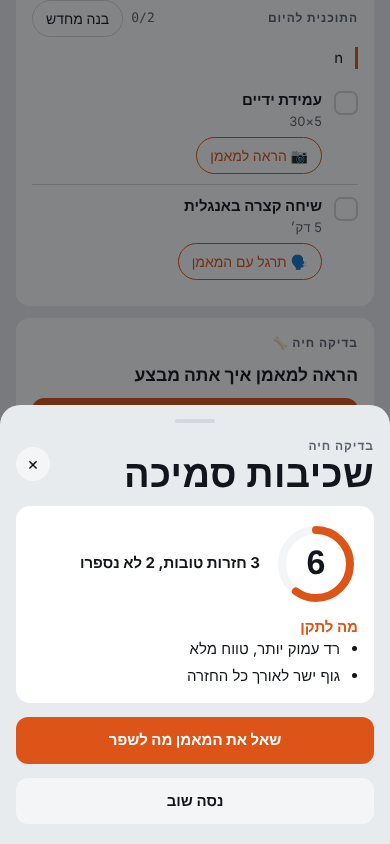
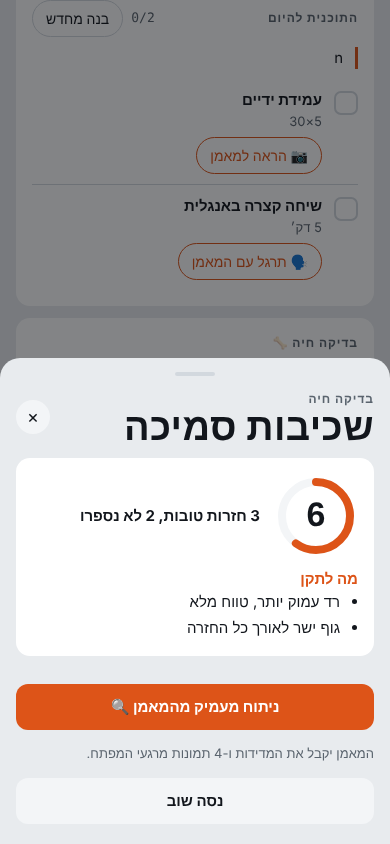
Deeper coach feedback: root cause, what was seen, why, how to fix, dosed drill
Video analysis sends 8 moments and the user's history; the live check
sends per-rep measurements and key-moment pictures on request.

Claude-Session: https://claude.ai/code/session_01DaGKMvaFq6VbNwD2FT6hoc

Changed region(s): [[0.0, 0.4005, 1.0, 0.9242], [0.2154, 0.6469, 0.6769, 0.6777], [0.0615, 0.5237, 0.0923, 0.5545]]

diff --git a/index.html b/index.html
@@ -76,7 +76,9 @@ body.has-bg .onbg,body.has-bg .onbg .muted,body.has-bg .onbg .eyebrow,body.has-b
 .live-msg.bad{background:rgba(185,58,44,.85)}
 .live-bottom{position:absolute;left:0;right:0;bottom:0;padding:12px max(16px,env(safe-area-inset-right,0px)) calc(14px + env(safe-area-inset-bottom,0px)) max(16px,env(safe-area-inset-left,0px));background:linear-gradient(transparent,rgba(0,0,0,.6))}
 .exgrid{display:grid;grid-template-columns:repeat(3,1fr);gap:8px}
-.exgrid .sport{min-height:0;padding:14px 8px}.exgrid .disp{font-size:17px;line-height:1.2}
+.exgrid .sport{min-height:0;padding:14px 8px}
+.fixc{border:1px solid var(--line);border-radius:12px;padding:10px 12px;background:var(--surface)}.fixc summary{cursor:pointer;list-style-position:inside}.fixc[open] summary{margin-bottom:6px}.fixc .small{margin-top:4px}
+.drillc{background:var(--accent-soft)}.exgrid .disp{font-size:17px;line-height:1.2}
 .exgrid .sport{min-height:0;padding:12px 8px;text-align:center;align-items:center}
 .exgrid .sport .disp{font-size:24px}
 .celebrate{text-align:center;display:flex;flex-direction:column;align-items:center;gap:10px;padding:10px 0}
@@ -753,35 +755,62 @@ function holdCheck(kind,m){const issues=[];
   if(kind==='handstand'){if(!m.inverted)issues.push('עלה לעמידת ידיים');else{if(m.line<160)issues.push('גוף ישר, בלי קשת בגב');if(m.elbow<155)issues.push('ידיים נעולות')}}
   return issues}
 let LIVE=null;
-function liveNew(id,name){return{id,name,facing:'user',running:false,reps:0,bad:0,state:'up',min:999,max:0,partial:false,holdMs:0,bestHold:0,cur:0,lastT:0,issues:{},smooth:null,msg:'',msgT:0,frames:0,seen:0}}
+function liveNew(id,name){return{id,name,facing:'user',running:false,reps:0,bad:0,state:'up',min:999,max:0,partial:false,holdMs:0,bestHold:0,cur:0,lastT:0,issues:{},smooth:null,msg:'',msgT:0,frames:0,seen:0,log:[],rep:null,attempts:[],hsnaps:[],snapT:0}}
+// one finished rep: how deep, how straight, how long, and a picture of its bottom
+function repEnd(L,t,ok,why){const r=L.rep;if(r)L.log.push({ok,why:why||'',min:Math.round(r.min),line:Math.round(r.lineMin),dur:Math.round((t-r.t0)/100)/10,snap:r.snap||null});L.rep=null}
 function liveStep(L,m,t){const E=LIVE_EX[L.id]||{kind:'general'};L.frames++;if(!m.visible){L.msg='צריך לראות את כל הגוף בפריים';L.cls='bad';L.lastT=t;return}L.seen++;
   const dt=L.lastT?Math.min(200,t-L.lastT):0;L.lastT=t;
   const note=x=>{L.issues[x]=(L.issues[x]||0)+1};
   if(E.kind==='reps'){let a=m[E.joint];L.smooth=L.smooth==null?a:L.smooth*0.6+a*0.4;a=L.smooth;
+    if(!L.rep)L.rep={t0:t,min:999,lineMin:180};if(a<L.rep.min-2){L.rep.min=a;if(t-L.snapT>150){L.snapReq='rep';L.snapT=t}}L.rep.lineMin=Math.min(L.rep.lineMin,m.line);
     const lo=E.inverse?a<E.down:a<E.down, hi=E.inverse?a>E.up:a>E.up;
     if(L.state==='up'){L.min=Math.min(L.min,a);
       if(lo){L.state='down';L.formBad=false}
-      else if(hi&&L.min<E.up-30){L.bad++;note(E.joint==='knee'?'רד עמוק יותר':'רד עמוק יותר, טווח מלא');L.msg=E.joint==='knee'?'חצי חזרה: רד עמוק יותר':'חצי חזרה: רד עמוק יותר';L.cls='bad';L.min=999}
-      else if(hi)L.min=999}
+      else if(hi&&L.min<E.up-30){L.bad++;repEnd(L,t,false,'חצי חזרה');note(E.joint==='knee'?'רד עמוק יותר':'רד עמוק יותר, טווח מלא');L.msg=E.joint==='knee'?'חצי חזרה: רד עמוק יותר':'חצי חזרה: רד עמוק יותר';L.cls='bad';L.min=999}
+      else if(hi){L.min=999;L.rep={t0:t,min:999,lineMin:180}}}
     else{if(E.line&&m.line<155){L.formBad=true}
       if(E.depth&&!m.hipBelowKnee&&a<E.down+5){}
       if(hi){L.state='up';L.min=999;
-        if(L.formBad){L.bad++;note('גוף ישר לאורך כל החזרה');L.msg='✗ הגוף לא היה ישר';L.cls='bad'}
-        else{L.reps++;L.msg='✓ חזרה טובה';L.cls='good'}}}
+        if(L.formBad){L.bad++;repEnd(L,t,false,'גוף לא ישר');note('גוף ישר לאורך כל החזרה');L.msg='✗ הגוף לא היה ישר';L.cls='bad'}
+        else{L.reps++;repEnd(L,t,true);L.msg='✓ חזרה טובה';L.cls='good'}}}
     if(L.state==='down'&&E.line&&m.line<155){L.msg='יישר את הגוף!';L.cls='bad'}
     return}
   if(E.kind==='pull'){const a=m.elbow;L.smooth=L.smooth==null?a:L.smooth*0.6+a*0.4;
+    if(!L.rep)L.rep={t0:t,min:999,lineMin:180};if(L.smooth<L.rep.min-2){L.rep.min=L.smooth;if(t-L.snapT>150){L.snapReq='rep';L.snapT=t}}L.rep.lineMin=Math.min(L.rep.lineMin,m.line??180);
     if(L.state==='up'){ // "up" here = hanging at the bottom, waiting to pull
-      if(L.smooth<80&&m.noseAboveWrist){L.state='top';L.reps++;L.msg='✓ חזרה טובה';L.cls='good'}
+      if(L.smooth<80&&m.noseAboveWrist){L.state='top';L.reps++;repEnd(L,t,true);L.msg='✓ חזרה טובה';L.cls='good'}
       else if(L.smooth<95&&!m.noseAboveWrist){L.msg='עוד קצת! סנטר מעל המוט';L.cls='bad';L.near=true}}
     else if(L.smooth>150){L.state='up';L.near=false}
-    if(L.state==='up'&&L.near&&L.smooth>150){L.bad++;note('סנטר מעל המוט בכל חזרה');L.near=false}
+    if(L.state==='up'&&L.near&&L.smooth>150){L.bad++;repEnd(L,t,false,'הסנטר לא עבר את המוט');note('סנטר מעל המוט בכל חזרה');L.near=false}
+    else if(L.state==='up'&&!L.near&&L.smooth>150&&L.rep&&L.rep.min>150)L.rep={t0:t,min:999,lineMin:180}
     return}
   if(E.kind==='hold'){const iss=holdCheck(E.hold,m);
+    if(t-L.snapT>800){L.snapReq=iss.length?'bad:'+iss[0]:'good';L.snapT=t}
     if(!iss.length){L.cur+=dt;L.holdMs+=dt;L.bestHold=Math.max(L.bestHold,L.cur);L.msg='✓ מחזיק נכון';L.cls='good'}
-    else{if(L.cur>500)note(iss[0]);L.cur=0;L.msg=iss[0];L.cls='bad'}
+    else{if(L.cur>500){note(iss[0]);L.attempts.push({sec:Math.round(L.cur/100)/10,broke:iss[0],line:Math.round(m.line),elbow:Math.round(m.elbow),tilt:Math.round(m.bodyTilt)})}L.cur=0;L.msg=iss[0];L.cls='bad'}
     return}
+  if(t-L.snapT>1200){L.snapReq='general';L.snapT=t}
   L.msg='השלד עוקב אחריך. לחץ "סיימתי" כשתסיים.';L.cls=''}
+function grabSnap(v,mirror){const sc=Math.min(1,640/Math.max(v.videoWidth,v.videoHeight));const c=document.createElement('canvas');c.width=Math.round(v.videoWidth*sc);c.height=Math.round(v.videoHeight*sc);
+  const x=c.getContext('2d');if(mirror){x.translate(c.width,0);x.scale(-1,1)}x.drawImage(v,0,0,c.width,c.height);return new Promise(r=>c.toBlob(r,'image/jpeg',.8))}
+function takeSnap(L,v){const kind=L.snapReq;L.snapReq=null;const p=grabSnap(v,L.facing==='user');
+  if(kind==='rep'){if(L.rep)L.rep.snap=p}
+  else{L.hsnaps.push({kind,cur:L.cur,p});if(L.hsnaps.length>60)L.hsnaps.splice(0,L.hsnaps.length-60)}}
+// the pictures worth showing the coach: best and worst moments, at most 4
+function pickSnaps(L){const E=LIVE_EX[L.id]||{kind:'general'};const out=[];const add=(p,label)=>{if(p&&out.length<4&&!out.some(o=>o.p===p))out.push({p,label})};
+  if(E.kind==='reps'||E.kind==='pull'){const R=L.log.map((r,i)=>({...r,i:i+1}));const ok=R.filter(r=>r.ok),bad=R.filter(r=>!r.ok);
+    if(ok[0])add(ok[0].snap,`חזרה ${ok[0].i} (נספרה), נקודה תחתונה`);
+    bad.forEach(b=>add(b.snap,`חזרה ${b.i} (לא נספרה: ${b.why})`));
+    if(ok.length>1)add(ok[ok.length-1].snap,`חזרה ${ok[ok.length-1].i} (נספרה, אחרונה)`)}
+  else{const H=L.hsnaps;const g=H.filter(h=>h.kind==='good').sort((a,b)=>b.cur-a.cur);const b=H.filter(h=>h.kind.startsWith('bad'));
+    if(g[0])add(g[0].p,'רגע של החזקה נכונה');const seen=new Set();for(const x of b){const k=x.kind.slice(4);if(seen.has(k))continue;seen.add(k);add(x.p,'טעות: '+k)}
+    if(E.kind==='general'){const n=H.length;for(const i of [0,Math.floor(n/3),Math.floor(2*n/3),n-1])if(H[i])add(H[i].p,'רגע מהביצוע')}}
+  return out}
+function liveStats(L){const E=LIVE_EX[L.id]||{kind:'general'};
+  if(E.kind==='reps'||E.kind==='pull'){const j=E.kind==='pull'?'מרפק בנקודה העליונה':E.joint==='knee'?'ברך בנקודה התחתונה':E.joint==='hip'?'ירך':'מרפק בנקודה התחתונה';
+    return `מדידות מהשלד (זוויות במעלות, 180 = ישר; ירידה מלאה = פחות מ-${E.down||80}; קו גוף 180 = כתף-אגן-קרסול בקו ישר):\n`+(L.log.map((r,i)=>`חזרה ${i+1}: ${r.ok?'נספרה':'לא נספרה ('+r.why+')'}, זווית ${j}: ${r.min}°, קו גוף מינימלי: ${r.line}°, משך: ${r.dur} שנ׳`).join('\n')||'לא הושלמו חזרות')}
+  if(E.kind==='hold')return `ניסיונות החזקה (רק זמן בטכניקה נכונה נספר):\n`+(L.attempts.map((a,i)=>`ניסיון ${i+1}: ${a.sec} שנ׳, נשבר בגלל: ${a.broke} (קו גוף ${a.line}°, מרפק ${a.elbow}°, הטיית גוף מהאופק ${a.tilt}°)`).join('\n')||'אין ניסיון של יותר מחצי שנייה')+`\nהחזקה הכי ארוכה: ${(L.bestHold/1000).toFixed(1)} שנ׳`;
+  return 'מצב מעקב כללי, בלי ספירה אוטומטית'}
 function drawSkel(cv,lm,vw,vh){const c=cv.getContext('2d');const W=cv.clientWidth,H=cv.clientHeight;if(cv.width!==W*devicePixelRatio){cv.width=W*devicePixelRatio;cv.height=H*devicePixelRatio}
   c.setTransform(devicePixelRatio,0,0,devicePixelRatio,0,0);c.clearRect(0,0,W,H);if(!lm)return;
   const sc=Math.max(W/vw,H/vh),ox=(W-vw*sc)/2,oy=(H-vh*sc)/2;const X=i=>[ox+lm[i].x*vw*sc,oy+lm[i].y*vh*sc];
@@ -804,7 +833,7 @@ async function startLive(id,name){closeSheet();LIVE=liveNew(id,name||LIVE_EX[id]
   if(!LIVE)return;LIVE.running=true;LIVE.msg=LIVE_EX[id]?.tip||'עמוד כך שכל הגוף ייראה';const v=$('#liveVid'),cv=$('#liveCan');let lastHud=0;
   const loop=()=>{if(!LIVE||!LIVE.running)return;const t=performance.now();
     if(v.readyState>=2&&v.videoWidth){try{const r=pose.detectForVideo(v,t);const lm=r?.landmarks?.[0];drawSkel(cv,lm,v.videoWidth,v.videoHeight);
-      if(lm)liveStep(LIVE,liveMeasure(LIVE.id,lm,v.videoWidth/v.videoHeight),t);else{LIVE.msg='לא רואה אותך. התרחק קצת מהמצלמה';LIVE.cls='bad'}}catch(e){console.warn(e)}}
+      if(lm){liveStep(LIVE,liveMeasure(LIVE.id,lm,v.videoWidth/v.videoHeight),t);if(LIVE.snapReq)takeSnap(LIVE,v)}else{LIVE.msg='לא רואה אותך. התרחק קצת מהמצלמה';LIVE.cls='bad'}}catch(e){console.warn(e)}}
     if(t-lastHud>120){liveHud();lastHud=t}LIVE.raf=requestAnimationFrame(loop)};loop()}
 function stopLive(){if(!LIVE)return;LIVE.running=false;cancelAnimationFrame(LIVE.raf);const v=$('#liveVid');if(v.srcObject){v.srcObject.getTracks().forEach(t=>t.stop());v.srcObject=null}$('#live').classList.add('hidden')}
 function liveResult(L){const E=LIVE_EX[L.id]||{kind:'general'};const top=Object.entries(L.issues).sort((a,b)=>b[1]-a[1]).map(x=>x[0]);
@@ -813,19 +842,37 @@ function liveResult(L){const E=LIVE_EX[L.id]||{kind:'general'};const top=Object.
   else if(E.kind==='general'){score=null;headline='השלד עקב אחריך'}
   else{const tot=L.reps+L.bad;score=tot?Math.round(10*L.reps/tot):0;headline=`${L.reps} חזרות טובות${L.bad?`, ${L.bad} לא נספרו`:''}`}
   return{score,headline,fix:top.slice(0,3),good:E.kind==='hold'?(L.bestHold>3000?['החזקה יציבה']:[]):(L.reps?[`${L.reps} חזרות בטווח מלא`]:[])}}
-function finishLive(){const L=LIVE;if(!L)return;stopLive();const R=liveResult(L);LIVE=null;
-  if(L.seen>5&&R.score!=null){const k='live|'+L.id;(S.hist[k]||(S.hist[k]=[])).push({date:today(),activity:L.name,score:R.score,good:R.good,fix:R.fix,drill:'',cue:'',live:true,metric:R.headline});save()}
+let LAST_LIVE=null;
+function finishLive(){const L=LIVE;if(!L)return;stopLive();const R=liveResult(L);LIVE=null;LAST_LIVE={L,R,entry:null};
+  if(L.seen>5&&R.score!=null){const k='live|'+L.id;const e={date:today(),activity:L.name,score:R.score,good:R.good,fix:R.fix,drill:'',cue:'',live:true,metric:R.headline};(S.hist[k]||(S.hist[k]=[])).push(e);LAST_LIVE.entry=e;save()}
   sheet(`${head('בדיקה חיה',esc(L.name))}
    <div class="card">${R.score!=null?`<div class="score">${ring(R.score)}<div><div class="t">${esc(R.headline)}</div></div></div>`:`<div class="t">${esc(R.headline)}</div>`}
-   ${R.fix.length?`<div><div class="t" style="color:var(--accent)">מה לתקן</div><ul class="clean">${R.fix.map(x=>`<li>${esc(x)}</li>`).join('')}</ul></div>`:L.seen>5?'<div class="small" style="color:var(--good)">לא זיהיתי טעויות. כל הכבוד!</div>':'<div class="small muted">לא הספקתי לראות אותך מספיק. נסה שוב, כשכל הגוף בפריים.</div>'}</div>
-   ${L.seen>5?`<button class="btn block" data-act="liveask" data-name="${esc(L.name)}" data-sum="${esc(R.headline+(R.fix.length?'. טעויות שזוהו: '+R.fix.join(', '):'. לא זוהו טעויות'))}">שאל את המאמן מה לשפר</button>`:''}
+   ${R.fix.length?`<div id="liveLocalFix"><div class="t" style="color:var(--accent)">מה לתקן</div><ul class="clean">${R.fix.map(x=>`<li>${esc(x)}</li>`).join('')}</ul></div>`:L.seen>5?'<div class="small" style="color:var(--good)">לא זיהיתי טעויות. כל הכבוד!</div>':'<div class="small muted">לא הספקתי לראות אותך מספיק. נסה שוב, כשכל הגוף בפריים.</div>'}</div>
+   <div id="liveDeep"></div>
+   ${L.seen>5?`<button class="btn block" id="liveDeepBtn" data-act="livedeep">ניתוח מעמיק מהמאמן 🔍</button><p class="small muted" id="liveDeepNote" style="margin:0">המאמן יקבל את המדידות ו-${pickSnaps(L).length||'כמה'} תמונות מרגעי המפתח.</p>`:''}
    <button class="btn block ghost" data-act="liveagain" data-id="${esc(L.id)}" data-name="${esc(L.name)}">נסה שוב</button>`)}
 function openLivePicker(){sheet(`${head('הראה למאמן','מה אתה מבצע?')}
    <div class="addrow"><input type="text" id="liveQ" placeholder="חפש תרגיל, למשל: פרונט לבר"><button class="btn" type="button" data-act="livefind">חפש</button></div>
    <div id="liveFindOut"></div>
    <div class="eyebrow">בסיס</div><div class="exgrid">${LIVE_BASE.map(id=>`<button class="sport" type="button" data-act="livego" data-id="${id}"><span class="disp">${esc(LIVE_EX[id].name)}</span></button>`).join('')}</div>
    <div class="eyebrow">החזקות וסקילים</div><div class="exgrid">${LIVE_MORE.map(id=>`<button class="sport" type="button" data-act="livego" data-id="${id}"><span class="disp">${esc(LIVE_EX[id].name)}</span></button>`).join('')}</div>
-   <p class="small muted">המצלמה נפתחת והשלד מתיישב על הגוף. הכל קורה בטלפון: הסרטון לא נשלח ולא נשמר.</p>`)}
+   <p class="small muted">המצלמה נפתחת והשלד מתיישב על הגוף. השלד רץ בטלפון והסרטון לא נשמר. תמונות מרגעי המפתח נשלחות למאמן רק אם תבקש ניתוח מעמיק.</p>`)}
+async function liveDeep(){const X=LAST_LIVE;if(!X)return;const {L,R}=X;const box=$('#liveDeep');const btn=$('#liveDeepBtn');
+  if(!AI||!IMG){box.innerHTML='<div class="banner">ניתוח מעמיק עובד כשאתה מחובר לחשבון.</div>';return}
+  btn?.remove();$('#liveDeepNote')?.remove();box.innerHTML='<p class="muted">המאמן עובר על החזרות והתמונות… (עד דקה)</p>';
+  const snaps=pickSnaps(L);const blobs=(await Promise.all(snaps.map(s=>s.p))).filter(Boolean);
+  let r;try{r=await AI.json(`אתה מאמן מומחה ברמה עולמית לכוח וקליסטניקס. המתאמן עשה עכשיו בדיקה חיה באפליקציה: ${L.name}. מעקב שלד (MediaPipe) מדד כל חזרה או החזקה.
+${liveStats(L)}
+סיכום האפליקציה: ${R.headline}.${R.fix.length?' טעויות שזוהו אוטומטית: '+R.fix.join(', ')+'.':''}
+${blobs.length?`מצורפות ${blobs.length} תמונות מרגעי מפתח, לפי הסדר: ${snaps.slice(0,blobs.length).map((s,i)=>`${i+1}) ${s.label}`).join('; ')}.`:''}
+${coachCtx('live|'+L.id)}
+השתמש במספרים: חפש דפוסים (למשל עייפות: הטווח מתקצר בחזרות האחרונות, קצב שמשתנה, ירידה בקו הגוף). המדידה דו-ממדית ממצלמה אחת, אז אם משהו נראה לא הגיוני, אמור את זה. ב-seen ציין מספר חזרה, ניסיון או תמונה.
+${DEEP_RULES}
+החזר רק JSON בעברית בצורה: ${DEEP_JSON}`,{images:blobs,max:2500})}
+  catch(e){box.innerHTML=`<div class="banner bad">${esc(aiFail(e))}</div>`;return}
+  const D=normDeep(r);if(X.entry){X.entry.deep=D;X.entry.fix=D.fix.map(f=>f.issue).slice(0,3);X.entry.cue=D.cue;X.entry.drill=D.drill?.name||'';save()}
+  $('#liveLocalFix')?.remove();
+  box.innerHTML=`<div class="card stack">${deepHtml(D)}</div><button class="btn block ghost" data-act="liveask" data-name="${esc(L.name)}" data-sum="${esc(R.headline+'. '+(D.priority||''))}">להמשיך עם המאמן בצ׳אט</button>`}
 async function liveFind(){const q=($('#liveQ')?.value||'').trim();const out=$('#liveFindOut');if(!q)return;
   let id=findLiveEx(q);
   if(!id&&AI){out.innerHTML='<p class="small muted">המאמן מחפש את התרגיל…</p>';
@@ -886,7 +933,7 @@ function msgHtml(m){let extra='';const th=m.thumbs?.length?`<div class="frames">
 function renderSugg(){$('#sugg').innerHTML=['מה האימון היום?','אני עייף, לוותר היום?','כואב לי המרפק אחרי אימון','איך משפרים '+(SPORTS[S.first]?.ex[0]||'')+'?'].map(t=>`<button class="chip" data-act="say">${esc(t)}</button>`).join('')}
 function talkRules(){const P=activeTalk();if(!P)return '';return `\n\nחשוב, עכשיו תרגול שיחה: המשימה "${P.task}". דבר איתו ב${P.lang} בלבד, ברמה ${S.langLevel||'בסיסית'}, משפטים קצרים ושאלה אחת בכל הודעה. אם יש טעות בהודעה האחרונה שלו, הוסף בסוף שורה קצרה בעברית: "תיקון: ...". זה גובר על הוראת השפה למעלה.`}
 function rules(){const r=S.reports.slice(-3).map(x=>`${x.date}: עשה: ${x.did}; קשה: ${x.hard}; הצליח: ${x.win}; רוצה להתמקד: ${x.focus}`).join('\n');
-  return `אתה "המאמן" באפליקציה Personal Life Coach: מאמן ספורט אישי צמוד, חם אבל דורש, שמכיר את המתאמן לאורך זמן. ${LANGLINE()} ענה בקצרה (עד 5 משפטים או רשימה קצרה), בגוף שני, בלי כותרות.
+  return `אתה "המאמן" באפליקציה Personal Life Coach: מאמן ספורט אישי צמוד, חם אבל דורש, שמכיר את המתאמן לאורך זמן. ${LANGLINE()} התאם את האורך לשאלה: על הודעה קלילה ענה קצר. על שאלה של טכניקה, תוכנית, התקדמות, פציעה או סרטון, ענה כמו מאמן מומחה: מה השורש (למה זה קורה), מה בדיוק לעשות עם מינון (סטים × חזרות, קצב, מנוחה), איך זה מרגיש כשזה נכון, ומתי להתקדם. ספציפי אליו ולא כללי. תבליטים קצרים, עד כ-10 שורות, בגוף שני, בלי כותרות.
 פרופיל: ${profile()}
 תוכנית היום: ${planItems().items.map(x=>x[0]).join(' | ')}
 דיווחי ערב אחרונים:\n${r||'אין עדיין'}
@@ -905,8 +952,8 @@ async function sendChat(text,media){if(chatBusy||(!text.trim()&&!media))return;c
   const box=$('#msgs');const b=document.createElement('div');b.className='msg a think';b.textContent='המאמן חושב…';box.append(b);scrollTo(0,document.body.scrollHeight);
   let reply;
   if(!AI||(media&&!IMG)){await wait(700);reply=media?'קיבלתי את הסרטון! ניתוח אמיתי של מה שרואים בו עובד כשהמאמן AI מחובר (בקישור של האפליקציה). אפשר גם להעלות אותו במסך "התקדמות" ולקבל ציון טכניקה.\n\n(מצב הדגמה)':fallbackChat(text)}
-  else{try{const turns=S.chat.slice(-14).map((m,i,a)=>({role:m.role,content:(m.thumbs?(m===a[a.length-1]&&media?`[המתאמן שלח ${media.video?'סרטון':'תמונה'}${media.video?`, מצורפים ${media.frames.length} פריימים ברצף מתוכו`:''}. התבונן בתמונות וענה כמאמן: מה הוא עושה, מה טוב, ומה לתקן (אם רלוונטי).] `:'[צירף סרטון/תמונה קודם בשיחה] '):'')+m.content}));
-   const r=await AI([{role:'user',content:rules()},...turns],{cache:false,...(media?{images:media.frames,modelTier:'default'}:{}),modelTier:'quick',onText:({text})=>{b.classList.remove('think');b.innerHTML=fmt(text)}});reply=r.text}
+  else{try{const turns=S.chat.slice(-14).map((m,i,a)=>({role:m.role,content:(m.thumbs?(m===a[a.length-1]&&media?`[המתאמן שלח ${media.video?'סרטון':'תמונה'}${media.video?`, מצורפים ${media.frames.length} פריימים ברצף מתוכו`:''}. התבונן בתמונות וענה כמאמן מומחה: מה הוא עושה, מה טוב ולמה, והגורם המגביל העיקרי: מה ראית בדיוק, למה זה קורה, ואיך לתקן עם תרגיל ומינון.] `:'[צירף סרטון/תמונה קודם בשיחה] '):'')+m.content}));
+   const r=await AI([{role:'user',content:rules()},...turns],{cache:false,...(media?{images:media.frames,modelTier:'default'}:{}),modelTier:'quick',max:1800,onText:({text})=>{b.classList.remove('think');b.innerHTML=fmt(text)}});reply=r.text}
    catch(e){reply=(e.text?e.text+'\n\n':'')+aiFail(e)}}
   S.chat.push({role:'assistant',content:reply});
   const P=activeTalk();if(P&&!media){P.n=(P.n||0)+1;
@@ -953,14 +1000,48 @@ function progressView(){const areaCards=nonSport().map(areaCard).join('');
   ${H.length?`<section class="card"><div class="row between"><div class="eyebrow">היסטוריה · ${esc(S.ex)}</div>${sparkSvg(H.map(x=>x.score))}</div>
    ${H.slice().reverse().map(x=>`<div class="hist"><div><div class="small num muted">${esc(x.date)}</div><div class="small">${esc(x.fix?.[0]||'')}</div></div><div class="row">${x.demo?'<span class="tag demo">דוגמה</span>':''}<span class="s">${x.score}</span></div></div>`).join('')}</section>`:''}
   </div>`}
+const DEEP_RULES=`איך לתת משוב כמו מאמן מומחה ברמה הגבוהה ביותר:
+- קודם הבן מה הוא מנסה לעשות ובאיזו רמה הוא, ואז חפש את הגורם המגביל העיקרי: הדבר האחד שאם יתוקן, הכי הרבה דברים אחרים יסתדרו. הבדל בין סימפטום (מה רואים) לשורש (למה זה קורה: כוח, גמישות, תזמון, הבנה של התנועה).
+- כל תיקון חייב להיות ספציפי למה שרואים פה, לא עצה כללית. ציין איפה ראית את זה (מספר פריים או רגע בתנועה) ומה בדיוק בגוף (מפרק, זווית, כיוון).
+- הסבר למה זה חשוב: מה זה עולה לו בביצועים או איזה עומס זה שם על הגוף.
+- תן תיקון שאפשר להרגיש: הנחיה גופנית קצרה (מה לדחוף, לאן להסתכל, מה לנעול) ולא רק "תיישר".
+- תרגיל תיקון אמיתי עם מינון מלא (סטים × חזרות או שניות, קצב, מנוחה), איך מבצעים אותו נכון, ומתי לעבור לשלב הבא.
+- גם מה טוב, עם הסבר למה זה טוב, כדי שישמור על זה. בלי מחמאות ריקות.
+- דבר אליו בגוף שני, חם ומקצועי, כמו מאמן שמכיר אותו. אם רואים סיכון לפציעה, אמור את זה בבירור.`;
+const DEEP_JSON=`{"summary":"2-3 משפטים: השורה התחתונה, מה הרמה ומה מעכב אותו","good":[{"point":"מה טוב","why":"למה זה חשוב לשמור"}],"fix":[{"issue":"הבעיה בקצרה","seen":"איפה ומה ראיתי בדיוק","why":"למה זה חשוב / מה השורש","how":"איך לתקן: הנחיה גופנית מעשית"}],"priority":"הדבר האחד לעבוד עליו השבוע ולמה","drill":{"name":"שם התרגיל","dose":"סטים × חזרות/שניות, קצב, מנוחה","how":"איך מבצעים נכון, 1-2 משפטים","progress":"מתי עוברים לשלב הבא"},"cue":"משפט של עד 6 מילים לזכור באימון","next":"מה לצלם או לנסות בפעם הבאה כדי לראות התקדמות"}`;
+function coachCtx(k){const H=(S.hist[k]||[]).filter(x=>!x.demo).slice(-3);
+  return `על המתאמן: ${profile()}
+פציעות במעקב: ${activeInj().map(i=>`${REG[i.region].n} ${i.side}, כאב ${i.pain}/10`).join('; ')||'אין'}
+${H.length?`בדיקות קודמות בתרגיל הזה:\n${H.map(x=>`${x.date}: ציון ${x.score}. ${x.metric?x.metric+'. ':''}תיקון עיקרי: ${x.fix?.[0]||'-'}`).join('\n')}\nהתייחס להתקדמות: מה השתפר ומה עדיין חוזר.`:'זו הבדיקה הראשונה בתרגיל הזה.'}`}
+function normDeep(r){const arr=x=>[].concat(x||[]);
+  return{summary:String(r.summary||''),good:arr(r.good).map(g=>typeof g==='string'?{point:g}:{point:String(g.point||''),why:String(g.why||'')}).filter(g=>g.point).slice(0,3),
+    fix:arr(r.fix).map(f=>typeof f==='string'?{issue:f}:{issue:String(f.issue||''),seen:String(f.seen||''),why:String(f.why||''),how:String(f.how||'')}).filter(f=>f.issue).slice(0,3),
+    priority:String(r.priority||''),drill:r.drill&&typeof r.drill==='object'?{name:String(r.drill.name||''),dose:String(r.drill.dose||''),how:String(r.drill.how||''),progress:String(r.drill.progress||'')}:(r.drill?{name:String(r.drill)}:null),
+    cue:String(r.cue||''),next:String(r.next||'')}}
+function deepHtml(d){const line=(l,v)=>v?`<div class="small"><b>${l}</b> ${esc(v)}</div>`:'';
+  return `${d.summary?`<p>${esc(d.summary)}</p>`:''}
+   ${d.priority?`<div class="banner"><b>הדבר האחד לעבוד עליו:</b> ${esc(d.priority)}</div>`:''}
+   ${d.fix.length?`<div class="stack"><div class="t" style="color:var(--accent)">מה לתקן</div>${d.fix.map((f,i)=>`<details class="fixc"${i===0?' open':''}><summary><b>${esc(f.issue)}</b></summary>${line('מה ראיתי:',f.seen)}${line('למה זה חשוב:',f.why)}${line('איך לתקן:',f.how)}</details>`).join('')}</div>`:''}
+   ${d.good.length?`<div><div class="t" style="color:var(--good)">מה טוב</div><ul class="clean">${d.good.map(g=>`<li>${esc(g.point)}${g.why?`<div class="small muted">${esc(g.why)}</div>`:''}</li>`).join('')}</ul></div>`:''}
+   ${d.drill?.name?`<div class="card drillc"><div class="eyebrow">תרגיל לתיקון</div><div class="t">${esc(d.drill.name)}</div>${line('מינון:',d.drill.dose)}${line('ביצוע:',d.drill.how)}${line('מתי להתקדם:',d.drill.progress)}</div>`:''}
+   ${d.cue?`<div class="small"><b>לזכור באימון:</b> ${esc(d.cue)}</div>`:''}
+   ${d.next?`<div class="small muted"><b>בפעם הבאה:</b> ${esc(d.next)}</div>`:''}`}
+// more moments from the video within the 4-image limit: two frames side by side in each image, numbered
+async function pairFrames(blobs){if(blobs.length<=4)return blobs;const out=[];
+  for(let i=0;i<blobs.length;i+=2){const ims=[];for(const b of blobs.slice(i,i+2)){const u=URL.createObjectURL(b);const im=new Image();im.src=u;await im.decode();URL.revokeObjectURL(u);ims.push(im)}
+    const h=Math.min(...ims.map(x=>x.height));const ws=ims.map(x=>Math.round(x.width*h/x.height));const c=document.createElement('canvas');c.width=ws.reduce((a,b)=>a+b,0)+8*(ims.length-1);c.height=h;
+    const x=c.getContext('2d');x.fillStyle='#000';x.fillRect(0,0,c.width,c.height);let ox=0;
+    ims.forEach((im,j)=>{x.drawImage(im,ox,0,ws[j],h);const n=String(i+j+1);x.font=`bold ${Math.round(h/12)}px sans-serif`;x.fillStyle='rgba(0,0,0,.6)';x.fillRect(ox+6,6,h/9,h/9);x.fillStyle='#fff';x.fillText(n,ox+6+h/40,6+h/12);ox+=ws[j]+8});
+    out.push(await new Promise(r=>c.toBlob(r,'image/jpeg',.85)))}
+  return out}
 function resultHtml(r,prev){const d=prev?r.score-prev.score:null;
   return `<div class="stack" style="border-top:1px solid var(--line);padding-top:12px"><div class="score">${ring(r.score)}<div><div class="eyebrow">ציון טכניקה${r.activity?' · '+esc(r.activity):''} ${r.demo?'<span class="tag demo">דוגמה</span>':''}</div>
    ${d!==null?`<div class="t">${d>0?'עלייה של '+d+' מהפעם הקודמת':d<0?'ירידה של '+(-d)+' מהפעם הקודמת':'כמו בפעם הקודמת'}</div>`:'<div class="t">סרטון ראשון בתרגיל הזה</div>'}
-   ${r.cue?`<div class="small muted">לזכור באימון: ${esc(r.cue)}</div>`:''}</div></div>
+   ${r.cue&&!r.deep?`<div class="small muted">לזכור באימון: ${esc(r.cue)}</div>`:''}</div></div>
    ${r.thumbs?.length?`<div class="frames">${r.thumbs.map(t=>`<img src="${t}" alt="פריים מהסרטון">`).join('')}</div>`:''}
-   ${r.good?.length?`<div><div class="t" style="color:var(--good)">מה טוב</div><ul class="clean">${r.good.map(x=>`<li>${esc(x)}</li>`).join('')}</ul></div>`:''}
+   ${r.deep?deepHtml(r.deep):`${r.good?.length?`<div><div class="t" style="color:var(--good)">מה טוב</div><ul class="clean">${r.good.map(x=>`<li>${esc(x)}</li>`).join('')}</ul></div>`:''}
    ${r.fix?.length?`<div><div class="t" style="color:var(--accent)">מה לתקן</div><ul class="clean">${r.fix.map(x=>`<li>${esc(x)}</li>`).join('')}</ul></div>`:''}
-   ${r.drill?`<div class="banner"><b>תרגיל לתיקון:</b> ${esc(r.drill)}</div>`:''}</div>`}
+   ${r.drill?`<div class="banner"><b>תרגיל לתיקון:</b> ${esc(r.drill)}</div>`:''}`}</div>`}
 function once(el,ev,ms){return new Promise((res,rej)=>{let t;const h=()=>{clearTimeout(t);el.removeEventListener('error',er);res()};
   const er=()=>{clearTimeout(t);el.removeEventListener(ev,h);rej(new Error('decode'))};
   t=setTimeout(()=>{el.removeEventListener(ev,h);el.removeEventListener('error',er);rej(new Error('timeout'))},ms);
@@ -993,20 +1074,23 @@ function videoErr(e){return e?.message==='decode'
 async function thumb(blob){const u=URL.createObjectURL(blob);try{const im=new Image();im.src=u;await im.decode();const c=document.createElement('canvas');const s=150/Math.max(im.width,im.height);c.width=im.width*s;c.height=im.height*s;c.getContext('2d').drawImage(im,0,0,c.width,c.height);return c.toDataURL('image/jpeg',.7)}catch(e){return null}finally{URL.revokeObjectURL(u)}}
 async function analyze(file){const out=$('#anaOut');const k=S.psport+'|'+S.ex;const H=S.hist[k]||(S.hist[k]=[]);const prev=H[H.length-1];
   out.innerHTML='<p class="muted">מכין פריימים מהסרטון…</p>';
-  let fr=[];try{fr=await grabFrames(file,Math.max(1,Math.min(4,IMG||4)))}catch(e){console.warn('video',e);out.innerHTML=`<div class="banner bad">${esc(videoErr(e))}</div>`;return}
-  const thumbs=(await Promise.all(fr.map(thumb))).filter(Boolean);
+  let fr=[];try{fr=await grabFrames(file,IMG?8:4)}catch(e){console.warn('video',e);out.innerHTML=`<div class="banner bad">${esc(videoErr(e))}</div>`;return}
+  const thumbs=(await Promise.all(fr.filter((_,i)=>fr.length<=4||i%2===0).map(thumb))).filter(Boolean);
+  const nF=fr.length;let imgs=fr;try{imgs=await pairFrames(fr)}catch(e){imgs=fr.filter((_,i)=>i%2===0)}
   out.innerHTML='';const what=await askWhat(thumbs,'מה עשית בסרטון?',S.ex,'למשל: ניסיון להחזקת טאק פלאנש');if(what===null)return;
   out.innerHTML=`<div class="frames">${thumbs.map(t=>`<img src="${t}" alt="">`).join('')}</div><p class="muted">המאמן מנתח את הטכניקה… (עד דקה)</p>`;
   let r;
-  if(AI&&IMG){try{r=await AI.json(`אתה מאמן מומחה לכל סוגי הספורט. מצורפות ${fr.length} תמונות ברצף מתוך סרטון. המתאמן בחר באפליקציה: ${S.ex} (${SPORTS[S.psport].name}).${what?' הוא כתב שבסרטון: '+what+'.':''}
-חשוב: נתח את מה שבאמת רואים בתמונות. אם זו פעילות אחרת ממה שנבחר (למשל גלישה במקום כדורסל), זהה אותה ותן משוב על הפעילות הזו. נתח את הטכניקה כמו מאמן צמוד: ספציפי, קצר, מעשי.
-${prev?`בפעם הקודמת הציון היה ${prev.score} והתיקון העיקרי היה: ${prev.fix?.[0]||''}. התייחס אם השתפר.`:''}
-החזר רק JSON בעברית בצורה: {"activity":"מה רואים בסרטון, 1-3 מילים","visible":true,"score":7,"good":["עד 3 נקודות"],"fix":["עד 3 נקודות"],"drill":"תרגיל אחד לתיקון עם מינון","cue":"משפט של עד 6 מילים לזכור באימון"}.
-score בין 1 ל-10. אם התרגיל לא נראה בבירור בתמונות, החזר visible:false, score:0, ו-fix עם הנחיית צילום.`,{images:fr,modelTier:'default'})}
+  if(AI&&IMG){try{r=await AI.json(`אתה מאמן מומחה ברמה עולמית בכל סוגי הספורט (כולל קליסטניקס, טיפוס, כוח, כדורסל, גלישה). מצורפים ${nF} פריימים ברצף מתוך סרטון${imgs.length<nF?`, שניים בכל תמונה, ממוספרים 1-${nF} לפי סדר הזמן (המספר בפינה של כל פריים)`:''}. המתאמן בחר באפליקציה: ${S.ex} (${SPORTS[S.psport].name}).${what?' הוא כתב שבסרטון: '+what+'.':''}
+${coachCtx(k)}
+חשוב: נתח את מה שבאמת רואים בפריימים. אם זו פעילות אחרת ממה שנבחר, זהה אותה ותן משוב עליה. עבור על התנועה לפי השלבים שלה (התחלה, ביצוע, סיום) לפני שאתה מסכם.
+${DEEP_RULES}
+החזר רק JSON בעברית בצורה: {"activity":"מה רואים, 1-3 מילים","visible":true,"score":7,${DEEP_JSON.slice(1)}
+score בין 1 ל-10 לפי הרמה שלו (7 = טכניקה טובה עם תיקון אחד חשוב). good עד 3, fix עד 3 מהחשוב לפחות חשוב. אם התרגיל לא נראה בבירור, החזר visible:false, score:0, ו-summary עם הנחיה איך לצלם.`,{images:imgs,max:2500})}
    catch(e){out.innerHTML=`<div class="banner bad">${esc(aiFail(e))}</div>`;return}
-   if(r.visible===false||!r.score){out.innerHTML=`<div class="banner bad">לא רואים את התרגיל מספיק טוב. ${esc((r.fix||[]).join(' '))}</div>`;return}}
+   if(r.visible===false||!r.score){out.innerHTML=`<div class="banner bad">לא רואים את התרגיל מספיק טוב. ${esc(r.summary||[].concat(r.fix||[]).map(f=>f.issue||f).join(' '))}</div>`;return}}
   else{await wait(1200);r={score:Math.min(10,(prev?.score||5)+1),good:['קצב אחיד לאורך הסט','מנח ראש ניטרלי'],fix:['שים לב לטווח התנועה בסוף כל חזרה','שמור על מרכז הכובד מעל הבסיס'],drill:'3 סטים איטיים (3 שנ׳ ירידה) בקושי נמוך',cue:'לאט ומלא',demo:true}}
-  const entry={date:today(),activity:String(r.activity||what||''),score:Math.round(Number(r.score)),good:[].concat(r.good||[]).slice(0,3),fix:[].concat(r.fix||[]).slice(0,3),drill:String(r.drill||''),cue:String(r.cue||''),thumbs,demo:!!r.demo};
+  const D=r.demo?null:normDeep(r);
+  const entry={date:today(),activity:String(r.activity||what||''),score:Math.round(Number(r.score)),good:D?D.good.map(g=>g.point):[].concat(r.good||[]).slice(0,3),fix:D?D.fix.map(f=>f.issue):[].concat(r.fix||[]).slice(0,3),drill:D?.drill?.name||String(r.drill||''),cue:String(r.cue||''),thumbs,demo:!!r.demo,deep:D};
   H.push(entry);save();render();toast(entry.demo?'מצב הדגמה: ניתוח אמיתי פועל כשהמאמן AI מחובר':'הניתוח נשמר בהיסטוריה')}
 
 /* ---------- sheets ---------- */
@@ -1161,7 +1245,8 @@ document.addEventListener('click',e=>{const t=e.target.closest('[data-act]');if(
   case'livedone':finishLive();break;
   case'liveagain':startLive(t.dataset.id,t.dataset.name);break;
   case'liveflip':if(LIVE){LIVE.facing=LIVE.facing==='user'?'environment':'user';startCamera().catch(()=>toast('לא הצלחתי להחליף מצלמה'))}break;
-  case'liveask':{closeSheet();S.tab='coach';save();render();sendChat(`עשיתי בדיקה חיה עם השלד: ${t.dataset.name}. התוצאה: ${t.dataset.sum}. מה לשפר ואיך להתקדם?`)}break;
+  case'livedeep':liveDeep();break;
+    case'liveask':{closeSheet();S.tab='coach';save();render();sendChat(`עשיתי בדיקה חיה עם השלד: ${t.dataset.name}. התוצאה: ${t.dataset.sum}. תסביר לי לעומק איך לתקן ואיך להתקדם.`)}break;
   case'look':{const ty=t.dataset.type,id=t.dataset.id;S.look=S.look||{};S.look[ty]=id;save();applyLook();render();openProfile();break}
   case'closereport':closeSheet();checkNewRewards();break;
   case'talk':startTalk(+t.dataset.i);break;
